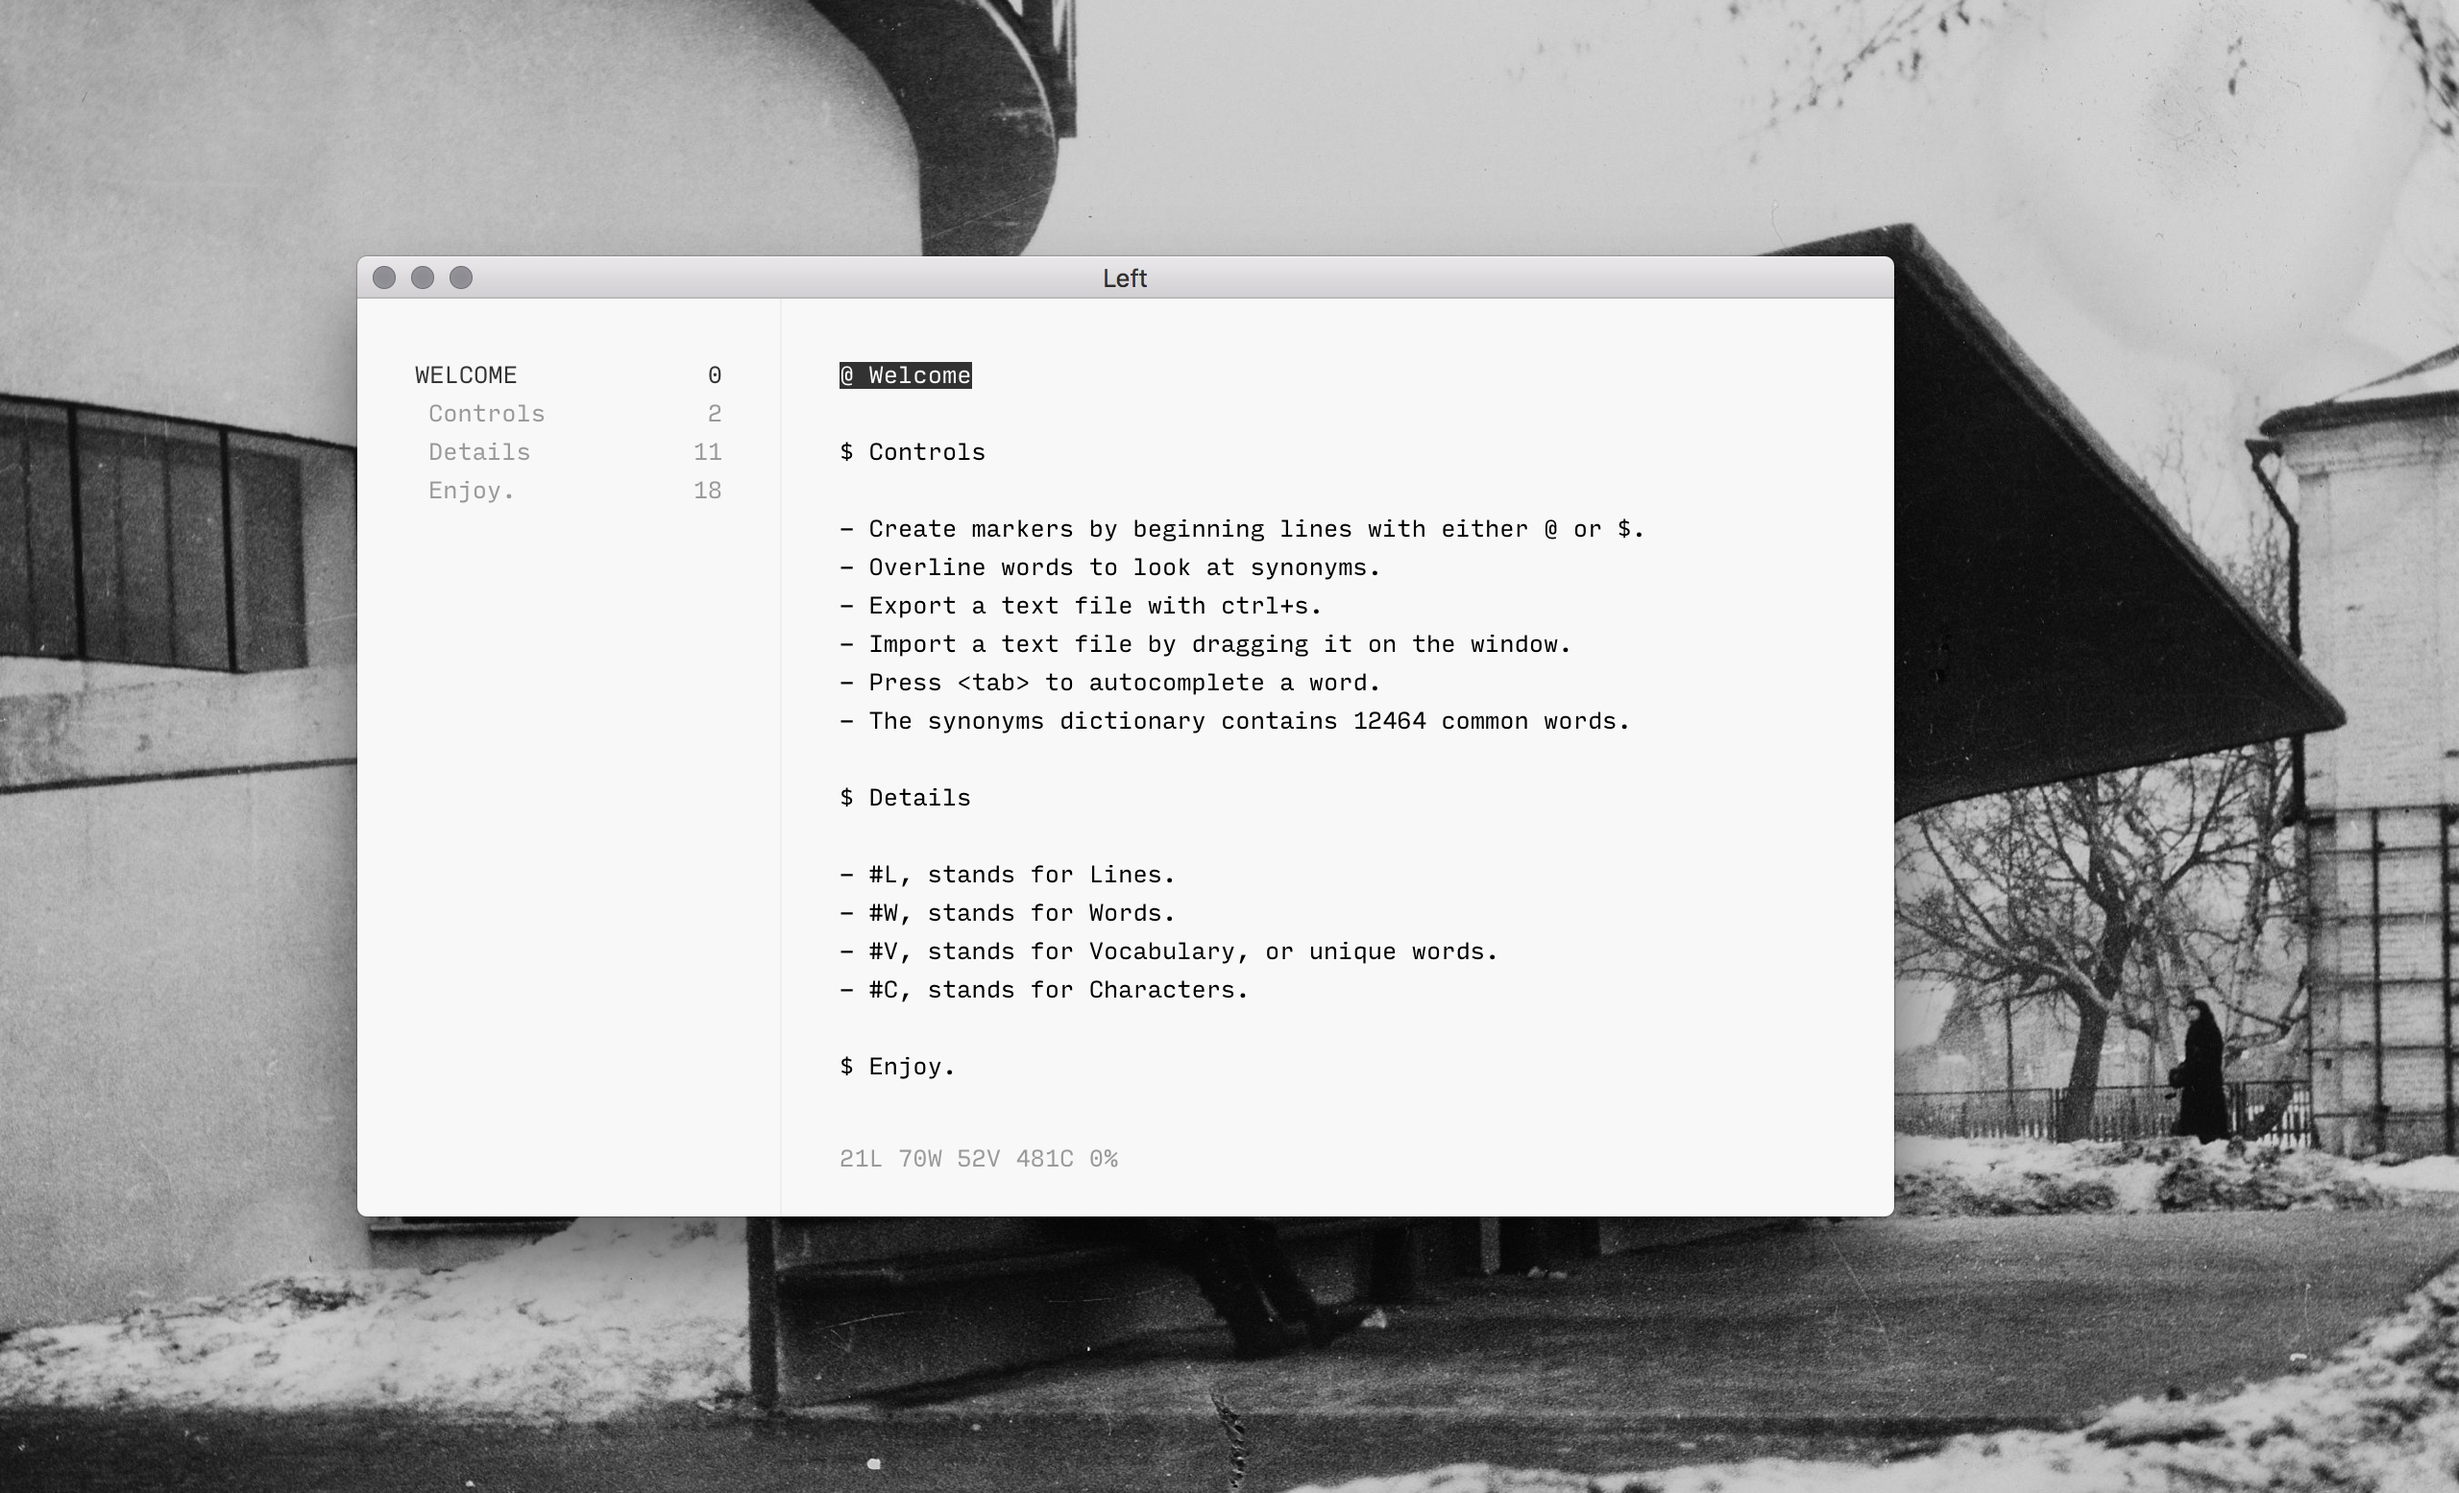
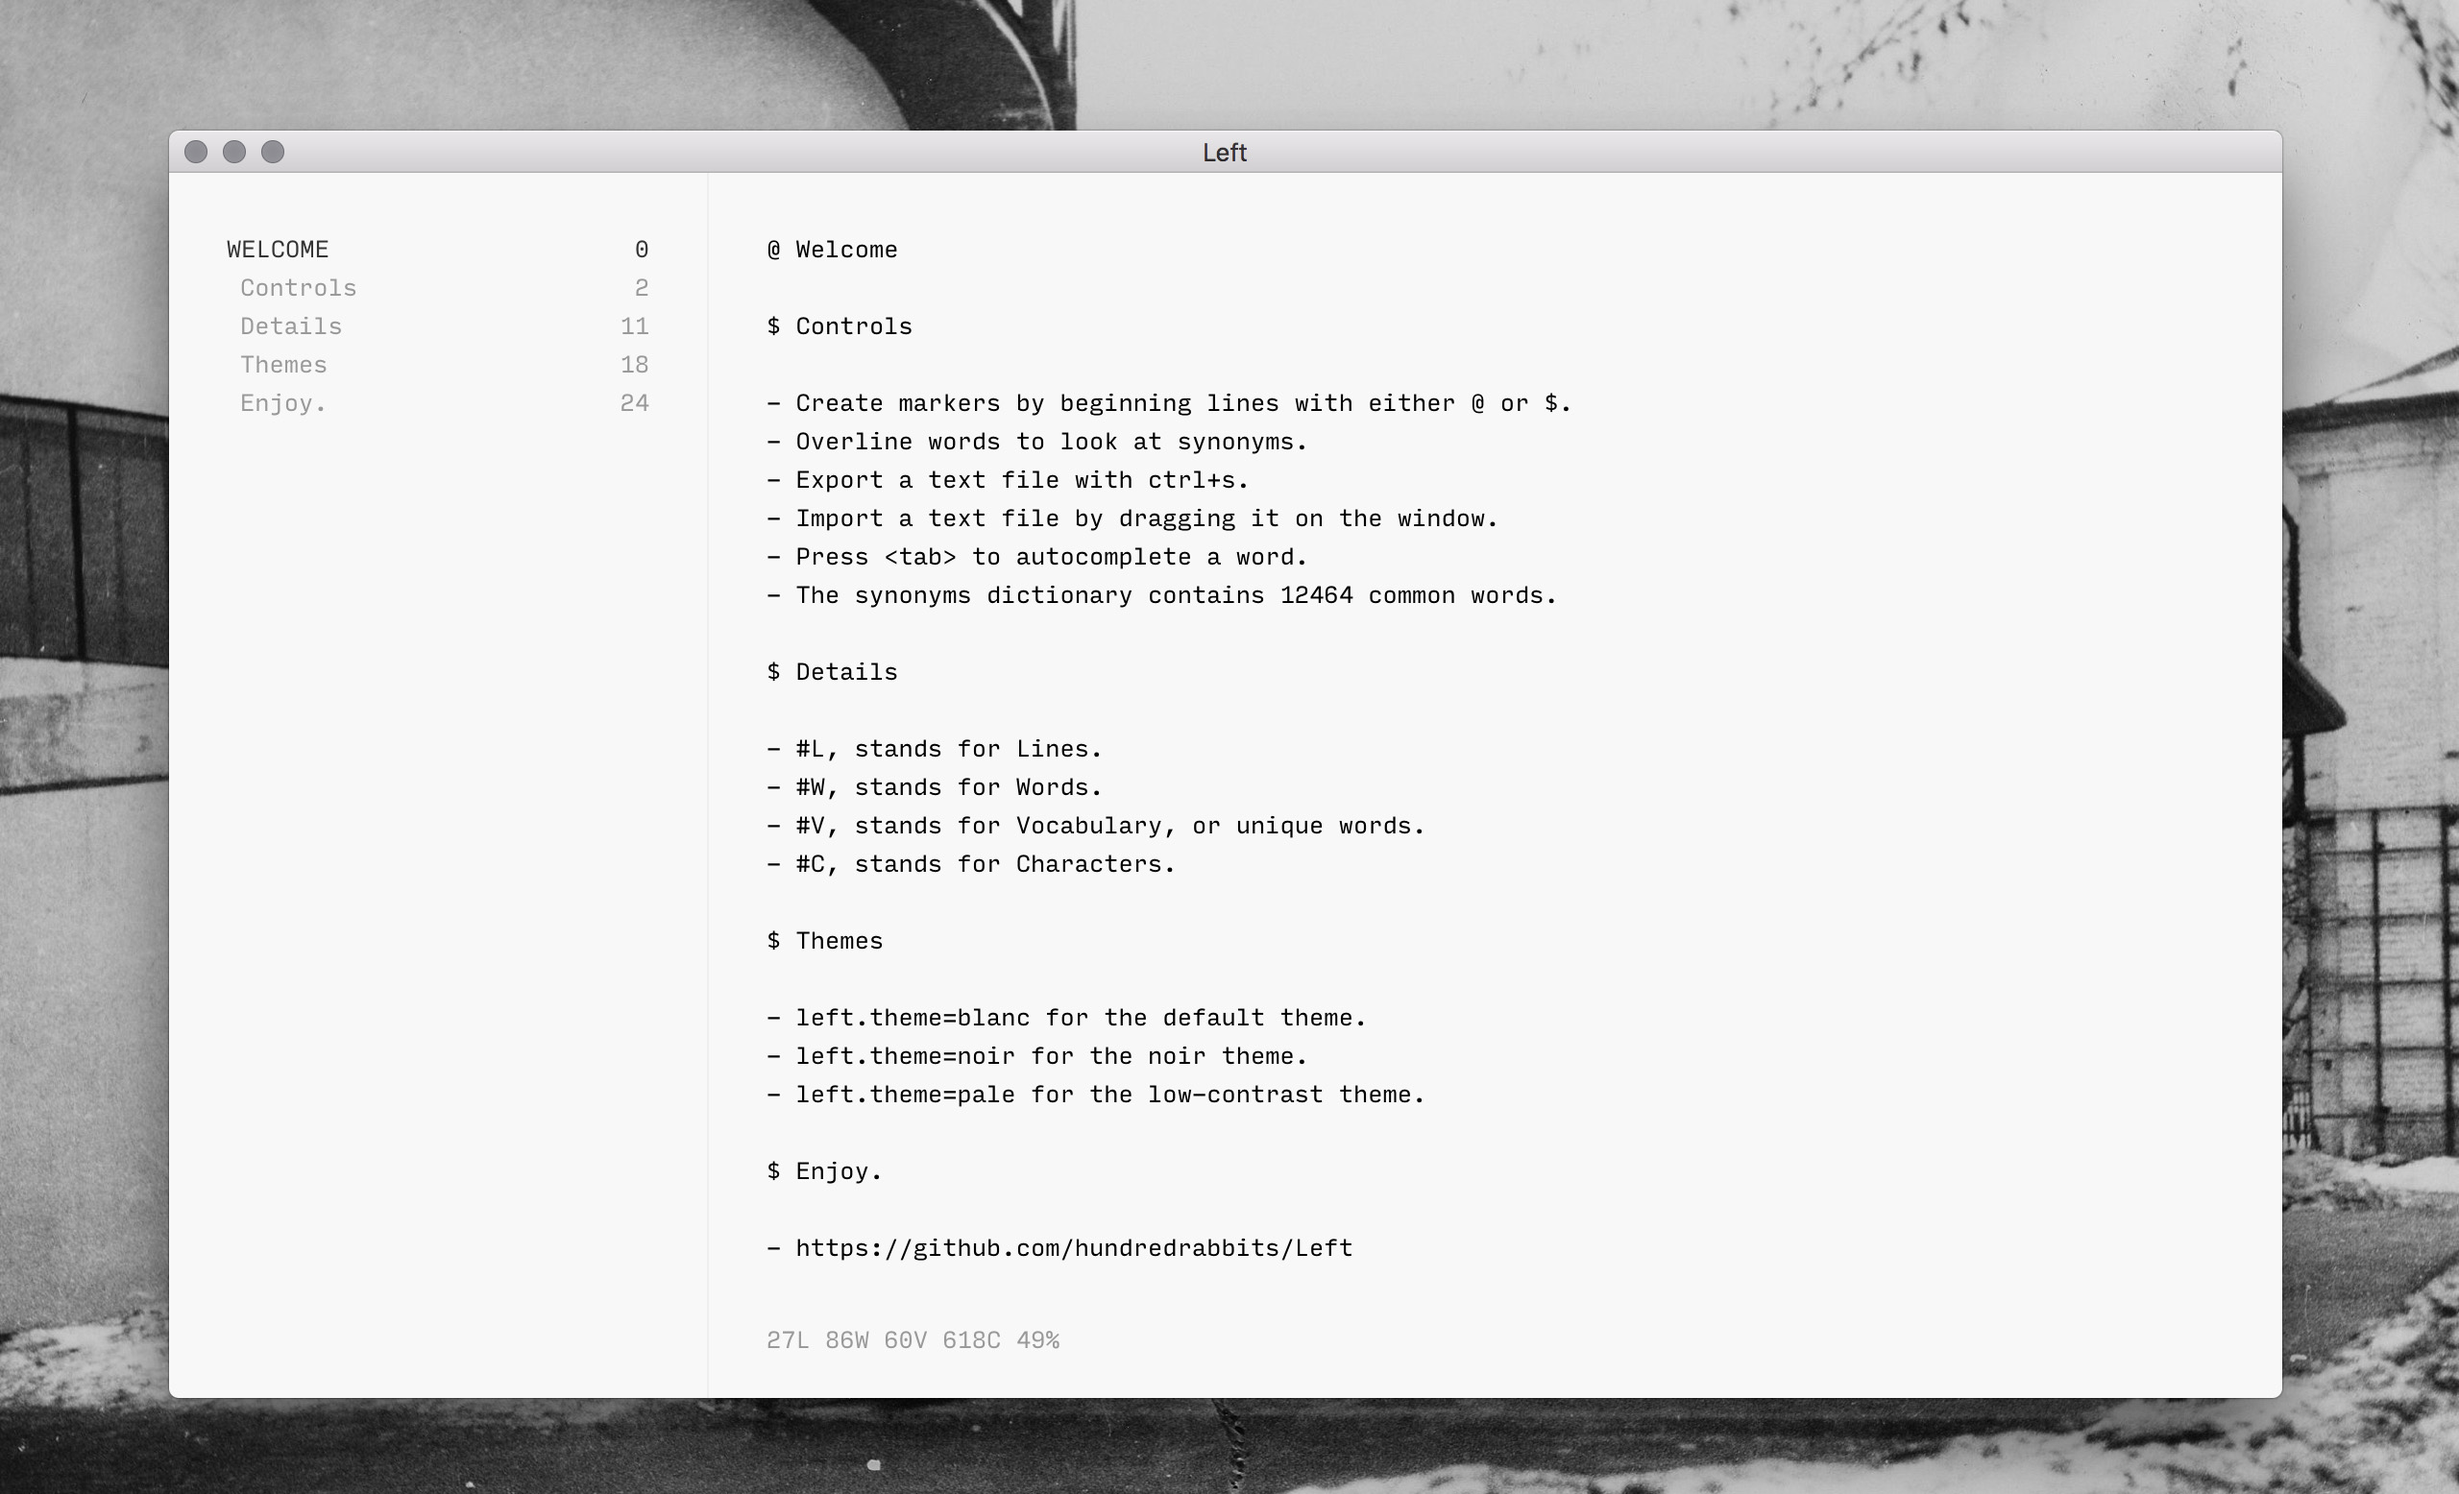
Improved PREVIEW image.

diff --git a/main.js b/main.js
@@ -8,7 +8,7 @@ let win
 
 function createWindow () {
   // Create the browser window.
-  win = new BrowserWindow({width: 900, height: 500, backgroundColor: '#000000', resizable:true, autoHideMenuBar: true,icon: __dirname + '/icon.ico'})
+  win = new BrowserWindow({width: 1100, height: 660, backgroundColor: '#ccc', resizable:true, autoHideMenuBar: true,icon: __dirname + '/icon.ico'})
 
   win.loadURL(`file://${__dirname}/sources/index.html`)
 

diff --git a/BUILD.md b/BUILD.md
@@ -39,23 +39,11 @@ rm -r /Users/VillaMoirai/Desktop/Left-darwin-x64/
 rm -r /Users/VillaMoirai/Desktop/Left-win32-x64/ 
 
 cd /Users/VillaMoirai/Github/HundredRabbits/Left/
-rm /Users/VillaMoirai/Desktop/left_lin64.zip
 electron-packager . Left --platform=linux --arch=x64 --out /Users/VillaMoirai/Desktop/ --overwrite --electron-version=1.6.2
-cd /Users/VillaMoirai/Desktop/
-zip -r left_lin64.zip Left-linux-x64/
-rm -r /Users/VillaMoirai/Desktop/Left-linux-x64/ 
 
 cd /Users/VillaMoirai/Github/HundredRabbits/Left/
-rm /Users/VillaMoirai/Desktop/left_osx64.zip
 electron-packager . Left --platform=darwin --arch=x64 --out /Users/VillaMoirai/Desktop/ --overwrite --electron-version=1.6.2
-cd /Users/VillaMoirai/Desktop/
-zip -r left_osx64.zip Left-darwin-x64/
-rm -r /Users/VillaMoirai/Desktop/Left-darwin-x64/ 
 
 cd /Users/VillaMoirai/Github/HundredRabbits/Left/
-rm /Users/VillaMoirai/Desktop/left_win64.zip
 electron-packager . Left --platform=win32 --arch=x64 --out /Users/VillaMoirai/Desktop/ --overwrite --electron-version=1.6.2
-cd /Users/VillaMoirai/Desktop/
-zip -r left_win64.zip Left-win32-x64/
-rm -r /Users/VillaMoirai/Desktop/Left-win32-x64/ 
 ```
